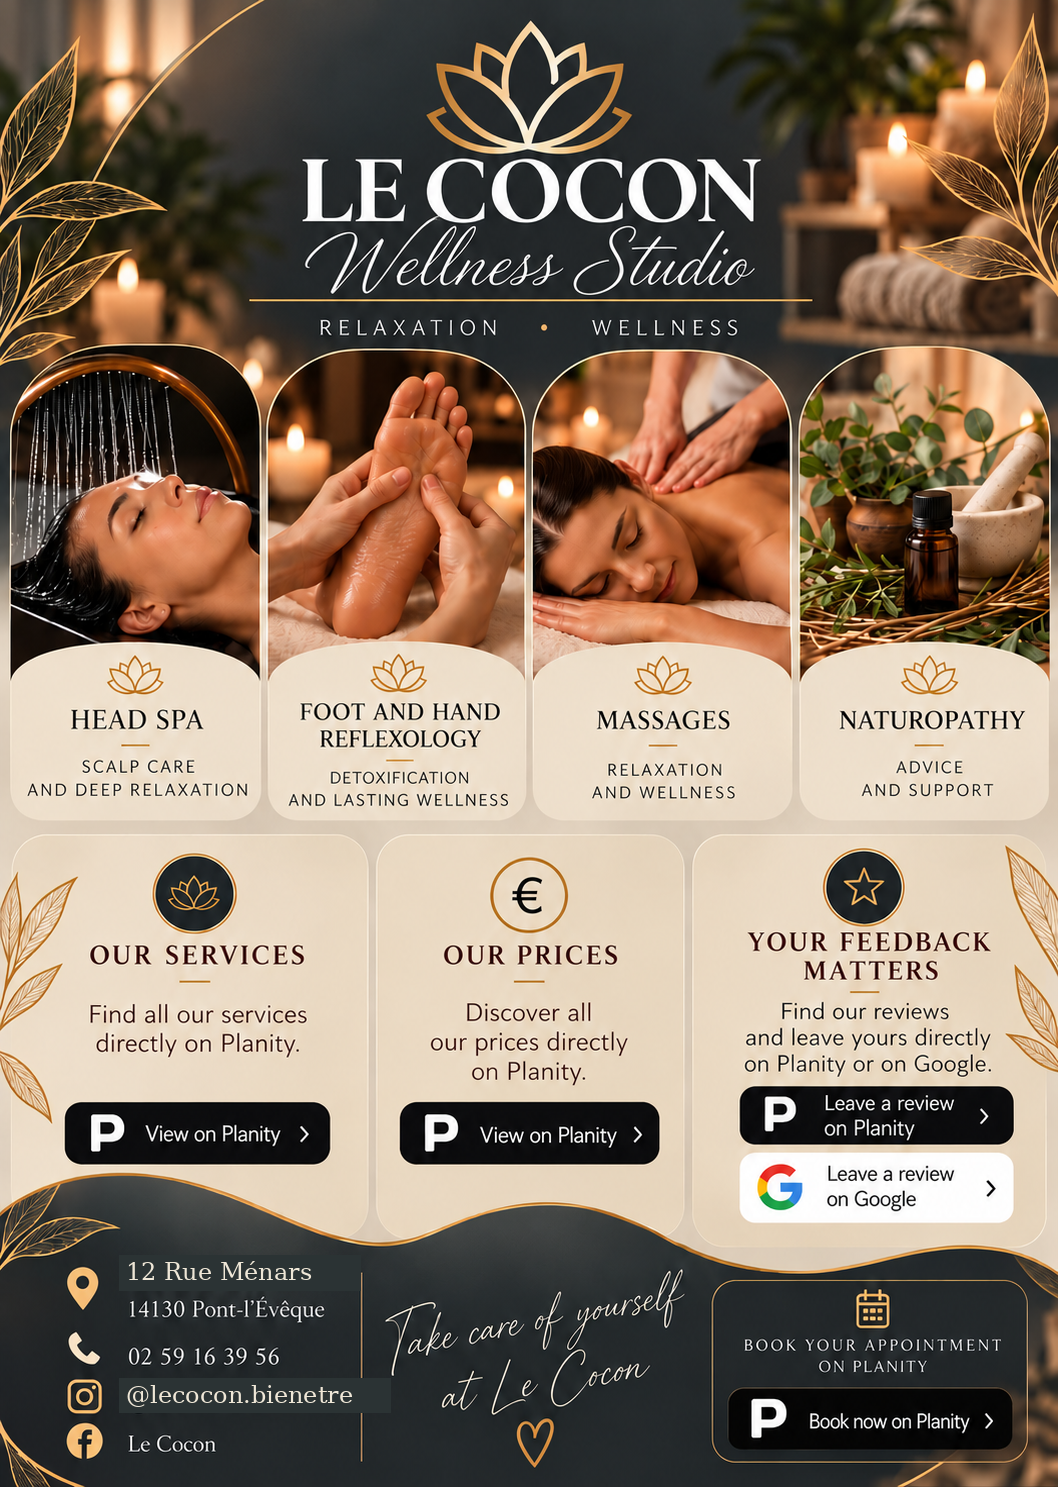
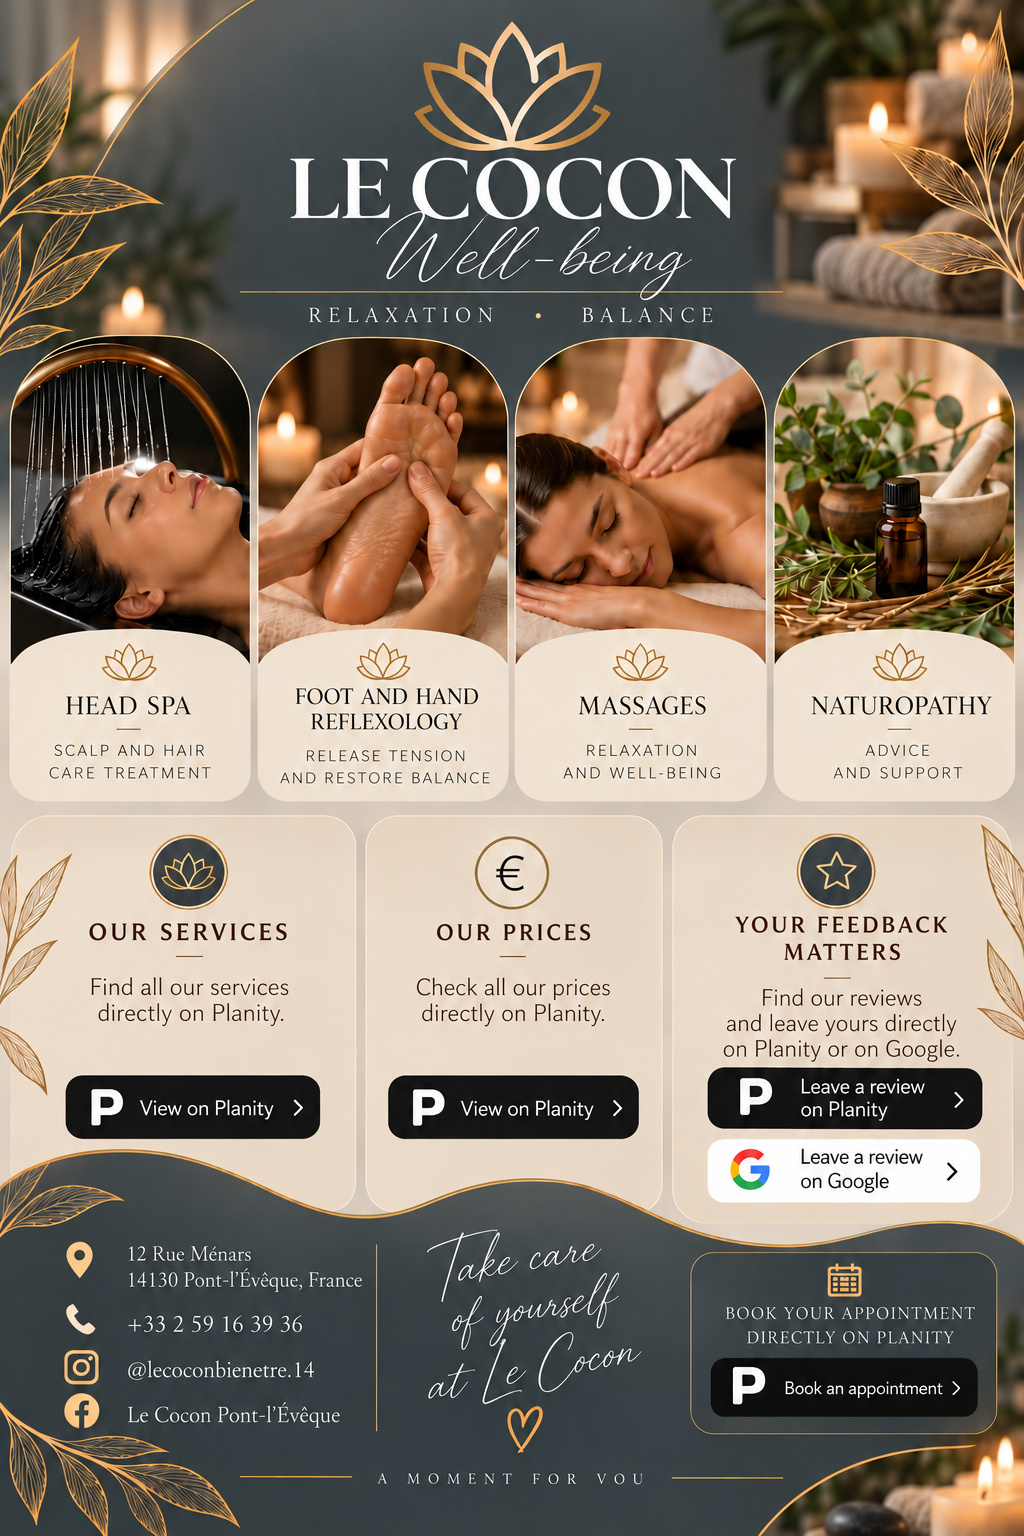
Add files via upload

diff --git a/index.html b/index.html
@@ -25,7 +25,7 @@ a{color:inherit}
 .skip-link{position:absolute;left:-9999px;top:8px;background:#fff;padding:12px;z-index:100}.skip-link:focus{left:8px}
 .poster{position:relative;width:100%;max-width:1400px;margin:0 auto;line-height:0;background:var(--anthracite)}.poster>img{display:block;width:100%;height:auto}
 .hotspot{position:absolute;display:block;line-height:normal;z-index:2;border-radius:18px}.hotspot:focus-visible{outline:3px solid var(--gold-light);outline-offset:2px;background:#ffffff22}
-.planity-services{left:6.2%;top:69.8%;width:25%;height:6.2%}.planity-tarifs{left:37.8%;top:69.8%;width:25%;height:6.2%}.planity-review{left:69%;top:69%;width:27%;height:4.5%}.google-review{left:69%;top:73.8%;width:27%;height:4.5%}.phone{left:5%;top:84.2%;width:27%;height:3.7%}.instagram{left:5%;top:88%;width:27%;height:3.8%}.facebook{left:5%;top:91.5%;width:28%;height:3.6%}.planity-booking{left:68.7%;top:88.4%;width:27.5%;height:4.2%}
+.address-map{left:5%;top:80.8%;width:28%;height:4.8%}.planity-services{left:6.2%;top:69.8%;width:25%;height:6.2%}.planity-tarifs{left:37.8%;top:69.8%;width:25%;height:6.2%}.planity-review{left:69%;top:69%;width:27%;height:4.5%}.google-review{left:69%;top:73.8%;width:27%;height:4.5%}.phone{left:5%;top:84.2%;width:27%;height:3.7%}.instagram{left:5%;top:88%;width:27%;height:3.8%}.facebook{left:5%;top:91.5%;width:28%;height:3.6%}.planity-booking{left:68.7%;top:88.4%;width:27.5%;height:4.2%}
 .services,.gallery{position:relative;text-align:center;color:var(--ink);background:var(--anthracite);border-top:1px solid rgba(198,160,100,.65)}
 .services{padding:58px 22px 62px;border-bottom:1px solid rgba(198,160,100,.65)}
 .gallery{padding:58px 22px 62px}
@@ -146,66 +146,93 @@ body > .skiptranslate{display:none!important;height:0!important;visibility:hidde
 </style>
 </head>
 <body>
-<div id="cocon-language-switcher" aria-label="Choisir la langue du site">
-<button type="button" data-lang="fr" aria-label="Français" aria-pressed="true">🇫🇷<span class="lang-code">FR</span></button>
-<button type="button" data-lang="en" aria-label="English" aria-pressed="false">🇬🇧<span class="lang-code">EN</span></button>
-<button type="button" data-lang="es" aria-label="Español" aria-pressed="false">🇪🇸<span class="lang-code">ES</span></button>
-<button type="button" data-lang="de" aria-label="Deutsch" aria-pressed="false">🇩🇪<span class="lang-code">DE</span></button>
-<button type="button" data-lang="it" aria-label="Italiano" aria-pressed="false">🇮🇹<span class="lang-code">IT</span></button>
-<button type="button" data-lang="nl" aria-label="Nederlands" aria-pressed="false">🇳🇱<span class="lang-code">NL</span></button>
-<button type="button" data-lang="ru" aria-label="Русский" aria-pressed="false">🇷🇺<span class="lang-code">RU</span></button>
+<div id="cocon-language-switcher" aria-label="Choisir la langue de l’affiche">
+<button type="button" data-lang="fr" aria-label="Français" aria-pressed="true" title="Français">🇫🇷<span class="lang-code">FR</span></button>
+<button type="button" data-lang="en" aria-label="English" aria-pressed="false" title="English">🇬🇧<span class="lang-code">EN</span></button>
+<button type="button" data-lang="es" aria-label="Español" title="Español">🇪🇸<span class="lang-code">ES</span></button>
+<button type="button" data-lang="de" aria-label="Deutsch" title="Deutsch">🇩🇪<span class="lang-code">DE</span></button>
+<button type="button" data-lang="it" aria-label="Italiano" title="Italiano">🇮🇹<span class="lang-code">IT</span></button>
+<button type="button" data-lang="nl" aria-label="Nederlands" title="Nederlands">🇳🇱<span class="lang-code">NL</span></button>
+<button type="button" data-lang="ru" aria-label="Русский" title="Русский">🇷🇺<span class="lang-code">RU</span></button>
 </div><div id="google_translate_element" aria-hidden="true"></div>
 <script>
 (function(){
- var root=document.getElementById('cocon-language-switcher'); if(!root)return;
- function setPressed(lang){root.querySelectorAll('button[data-lang]').forEach(function(b){b.setAttribute('aria-pressed',b.getAttribute('data-lang')===lang?'true':'false')})}
- function writeCookie(name,value,domain){
-   var cookie=name+'='+value+'; path=/; SameSite=Lax';
-   if(domain) cookie+='; domain='+domain;
-   document.cookie=cookie;
- }
- function clearTranslateCookies(){
-   var expired='; expires=Thu, 01 Jan 1970 00:00:00 GMT; path=/; SameSite=Lax';
-   document.cookie='googtrans='+expired;
-   var host=location.hostname;
-   document.cookie='googtrans='+expired+'; domain='+host;
-   if(host==='www.lecocon14.com'||host==='lecocon14.com'){
-     document.cookie='googtrans='+expired+'; domain=.lecocon14.com';
-     document.cookie='googtrans='+expired+'; domain=lecocon14.com';
-   }
-   try{localStorage.removeItem('googtrans')}catch(e){}
- }
- function setLang(lang){
-   if(!['fr','en','es','de','it','nl','ru'].includes(lang)) return;
-   clearTranslateCookies();
-   if(lang!=='fr'){
-     writeCookie('googtrans','/fr/'+lang);
-     var host=location.hostname;
-     if(host==='www.lecocon14.com'||host==='lecocon14.com') writeCookie('googtrans','/fr/'+lang,'.lecocon14.com');
-   }
-   try{localStorage.setItem('cocon-lang',lang)}catch(e){}
-   setPressed(lang);
-   applyPosterLanguage(lang);
-   location.reload();
- }
- function applyPosterLanguage(lang){
-   var poster=document.getElementById('cocon-home-poster');
-   if(!poster)return;
-   var code=lang||'fr';
-   var files={fr:'maquette.png',en:'maquette-en.png',es:'maquette-es.png',de:'maquette-de.png',it:'maquette-it.png',nl:'maquette-nl.png',ru:'maquette-ru.png'};
-   poster.onerror=function(){poster.onerror=null;poster.src='./maquette.png'};
-   poster.src='./'+(files[code]||files.fr);
- }
- root.querySelectorAll('button[data-lang]').forEach(function(b){b.addEventListener('click',function(){setLang(b.getAttribute('data-lang'))})});
- function currentLang(){
-   var match=document.cookie.match(/(?:^|;\s*)googtrans=\/fr\/(en|es|de|it|nl|ru)/);
-   if(match)return match[1];
-   try{var stored=localStorage.getItem('cocon-lang');if(stored)return stored}catch(e){}
-   return 'fr';
- }
- var selected=currentLang();setPressed(selected);applyPosterLanguage(selected);
- window.googleTranslateElementInit=function(){new google.translate.TranslateElement({pageLanguage:'fr',includedLanguages:'en,es,de,it,nl,ru',autoDisplay:false},'google_translate_element');};
- var script=document.createElement('script');script.src='https://translate.google.com/translate_a/element.js?cb=googleTranslateElementInit';script.async=true;document.head.appendChild(script);
+  var translateReady = false;
+  window.googleTranslateElementInit = function(){
+    if (!window.google || !google.translate) return;
+    new google.translate.TranslateElement({pageLanguage:'fr', includedLanguages:'fr,en,es,de,it,nl,ru', autoDisplay:false}, 'google_translate_element');
+    translateReady = true;
+  };
+  function loadGoogleTranslate(){
+    if (document.getElementById('google-translate-loader')) return;
+    var script=document.createElement('script');
+    script.id='google-translate-loader';
+    script.src='https://translate.google.com/translate_a/element.js?cb=googleTranslateElementInit';
+    script.async=true;
+    document.head.appendChild(script);
+  }
+  function applyGoogleLanguage(lang){
+    if(lang==='fr'){
+      var combo=document.querySelector('.goog-te-combo');
+      if(combo){combo.value='';combo.dispatchEvent(new Event('change'));}
+      return;
+    }
+    var combo=document.querySelector('.goog-te-combo');
+    if(combo){combo.value=lang;combo.dispatchEvent(new Event('change'));}
+  }
+  document.addEventListener('DOMContentLoaded',function(){
+    var root=document.getElementById('cocon-language-switcher');
+    var poster=document.getElementById('cocon-main-poster');
+    if(!root) return;
+    loadGoogleTranslate();
+    function setLang(lang){
+      if(!['fr','en','es','de','it','nl','ru'].includes(lang)) lang='fr';
+      if(poster){
+        // Chaque drapeau affiche la maquette fournie dans la langue correspondante.
+        var posterFiles = {
+          fr: './maquette.png',
+          en: './maquette-en.png',
+          es: './maquette-es.png',
+          de: './maquette-de.png',
+          it: './maquette-it.png',
+          nl: './maquette-nl.png',
+          ru: './maquette-ru.png'
+        };
+        var posterLabels = {
+          fr: 'Affiche du Cocon Bien-Être en français.',
+          en: 'Le Cocon Well-being poster in English.',
+          es: 'Cartel de Le Cocon Bienestar en español.',
+          de: 'Plakat von Le Cocon Wellnesszentrum auf Deutsch.',
+          it: 'Locandina di Le Cocon Benessere in italiano.',
+          nl: 'Poster van Le Cocon Welzijn in het Nederlands.',
+          ru: 'Плакат Le Cocon на русском языке.'
+        };
+        poster.src = posterFiles[lang] || posterFiles.fr;
+        poster.alt = posterLabels[lang] || posterLabels.fr;
+      }
+      root.querySelectorAll('button[data-lang]').forEach(function(button){
+        button.setAttribute('aria-pressed',button.getAttribute('data-lang')===lang?'true':'false');
+        var label=button.getAttribute('aria-label')||button.title||lang;
+        button.title=label;
+      });
+      try{localStorage.setItem('cocon-poster-lang',lang);}catch(e){}
+      // Google Translate s'initialise de façon asynchrone : réessaie brièvement
+      // sans bloquer la page si le service n'est pas disponible.
+      var attempts=0;
+      var timer=setInterval(function(){
+        attempts++;
+        var combo=document.querySelector('.goog-te-combo');
+        if(combo){clearInterval(timer);applyGoogleLanguage(lang);}
+        else if(attempts>=20){clearInterval(timer);}
+      },250);
+    }
+    root.querySelectorAll('button[data-lang]').forEach(function(button){
+      button.addEventListener('click',function(){setLang(button.getAttribute('data-lang'));});
+    });
+    var initial='fr';
+    try{initial=localStorage.getItem('cocon-poster-lang')||'fr';}catch(e){}
+    setLang(initial);
+  });
 })();
 </script>
 
@@ -238,8 +265,9 @@ body > .skiptranslate{display:none!important;height:0!important;visibility:hidde
   </nav>
 </header>
 <main id="contenu">
-<section class="poster" aria-label="Présentation du Cocon Bien-Être"><img id="cocon-home-poster" src="./maquette.png" data-base="./maquette" alt="Présentation du salon Le Cocon Bien-Être à Pont-l’Évêque et de ses prestations de bien-être.">
-<a class="hotspot planity-services" href="https://www.planity.com/le-cocon-head-spa-modelage-14130-pont-leveque" target="_blank" rel="noopener noreferrer" aria-label="Voir les prestations sur Planity"></a><a class="hotspot planity-tarifs" href="https://www.planity.com/le-cocon-head-spa-modelage-14130-pont-leveque" target="_blank" rel="noopener noreferrer" aria-label="Voir les tarifs sur Planity"></a><a class="hotspot planity-review" href="https://www.planity.com/le-cocon-head-spa-modelage-14130-pont-leveque" target="_blank" rel="noopener noreferrer" aria-label="Avis Planity"></a><a class="hotspot google-review" href="https://www.google.com/search?q=Le+Cocon+Bien-%C3%AAtre+Pont-l%27%C3%89v%C3%AAque" target="_blank" rel="noopener noreferrer" aria-label="Avis Google"></a><a class="hotspot phone" href="tel:+33259163936" aria-label="Appeler le salon"></a><a class="hotspot instagram" href="https://www.instagram.com/lecocon.bienetre/" target="_blank" rel="noopener noreferrer" aria-label="Instagram du Cocon"></a><a class="hotspot facebook" href="https://www.facebook.com/lecoconpontleveque/" target="_blank" rel="noopener noreferrer" aria-label="Facebook du Cocon"></a><a class="hotspot planity-booking" href="https://www.planity.com/le-cocon-head-spa-modelage-14130-pont-leveque" target="_blank" rel="noopener noreferrer" aria-label="Prendre rendez-vous sur Planity"></a></section>
+<section class="poster" aria-label="Présentation du Cocon Bien-Être"><img id="cocon-main-poster" src="./maquette.png" alt="Affiche du Cocon Bien-Être en français.">
+<a class="hotspot planity-services" href="https://www.planity.com/le-cocon-head-spa-modelage-14130-pont-leveque" target="_blank" rel="noopener noreferrer" aria-label="Voir les prestations sur Planity"></a><a class="hotspot planity-tarifs" href="https://www.planity.com/le-cocon-head-spa-modelage-14130-pont-leveque" target="_blank" rel="noopener noreferrer" aria-label="Voir les tarifs sur Planity"></a><a class="hotspot planity-review" href="https://www.planity.com/le-cocon-head-spa-modelage-14130-pont-leveque" target="_blank" rel="noopener noreferrer" aria-label="Avis Planity"></a><a class="hotspot google-review" href="https://www.google.com/search?q=Le+Cocon+Bien-%C3%AAtre+12+Rue+M%C3%A9nars+Pont-l%27%C3%89v%C3%AAque+avis" target="_blank" rel="noopener noreferrer" aria-label="Avis Google"></a><a class="hotspot address-map" href="https://www.google.com/maps/search/?api=1&amp;query=12+Rue+M%C3%A9nars%2C+14130+Pont-l%27%C3%89v%C3%AAque" target="_blank" rel="noopener noreferrer" aria-label="Adresse du salon dans Google Maps"></a>
+<a class="hotspot phone" href="tel:+33259163936" aria-label="Appeler le salon"></a><a class="hotspot instagram" href="https://www.instagram.com/lecocon.bienetre/" target="_blank" rel="noopener noreferrer" aria-label="Instagram du Cocon"></a><a class="hotspot facebook" href="https://www.facebook.com/lecoconpontleveque/" target="_blank" rel="noopener noreferrer" aria-label="Facebook du Cocon"></a><a class="hotspot planity-booking" href="https://www.planity.com/le-cocon-head-spa-modelage-14130-pont-leveque" target="_blank" rel="noopener noreferrer" aria-label="Prendre rendez-vous sur Planity"></a></section>
 <section class="services" id="about" aria-labelledby="services-title"><div class="services-inner"><div class="eyebrow">Votre parenthèse de douceur</div><h1 id="services-title">Le Cocon Bien-Être à Pont-l’Évêque</h1><p class="intro">Bienvenue au Cocon Bien-Être, un espace dédié à la détente et au lâcher-prise à Pont-l’Évêque, dans le Calvados. Découvrez nos soins et choisissez le moment de bien-être qui vous ressemble.</p><div class="service-grid">
 <article class="service-card"><a class="service-card-link" href="./head-spa.html" aria-label="Découvrir : Head Spa"><h3>Head Spa</h3><p>Offrez-vous une pause relaxante dédiée au cuir chevelu, avec des gestes enveloppants pour favoriser la détente et profiter d’un moment pour vous.</p></a></article><article class="service-card"><a class="service-card-link" href="./massage-bien-etre.html" aria-label="Découvrir : Massages bien-être"><h3>Massages bien-être</h3><p>Profitez d’un massage bien-être dans une atmosphère apaisante. Les gestes doux invitent à relâcher les tensions du quotidien et à retrouver une agréable sensation de détente.</p></a></article><article class="service-card"><a class="service-card-link" href="./massage-pierres-chaudes.html" aria-label="Découvrir : Massage aux pierres chaudes"><h3>Massage aux pierres chaudes</h3><p>La chaleur des pierres et les mouvements du modelage vous invitent à ralentir, à vous détendre et à profiter d’une parenthèse chaleureuse et réconfortante.</p></a></article><article class="service-card"><a class="service-card-link" href="./reflexologie-plantaire.html" aria-label="Découvrir : Réflexologie plantaire"><h3>Réflexologie plantaire</h3><p>Un soin de détente centré sur les pieds, réalisé par des pressions sur des zones précises, pour s’accorder un moment calme et favoriser le relâchement.</p></a></article><article class="service-card"><a class="service-card-link" href="./reflexologie-palmaire.html" aria-label="Découvrir : Réflexologie palmaire"><h3>Réflexologie palmaire</h3><p>Une pause douce dédiée aux mains, avec des pressions ciblées qui invitent à relâcher les tensions et à profiter d’un instant de relaxation.</p></a></article><article class="service-card"><a class="service-card-link" href="./naturopathie.html" aria-label="Découvrir : Naturopathie"><h3>Naturopathie</h3><p>Un accompagnement personnalisé autour de l’hygiène de vie et des habitudes du quotidien, pour faire le point sur vos besoins et vos objectifs de bien-être.</p></a></article></div><div class="booking-wrap"><a class="booking-button" href="https://www.planity.com/le-cocon-head-spa-modelage-14130-pont-leveque" target="_blank" rel="noopener noreferrer">Découvrir les prestations et réserver</a></div></div></section>
 <section class="gallery" id="galerie" aria-labelledby="gallery-title"><div class="eyebrow">Le Cocon Bien-Être · Pont-l’Évêque</div><h2 id="gallery-title">Découvrez notre univers</h2><div class="rule"></div><p class="intro">Une parenthèse de douceur, de détente et de bien-être. Découvrez en images l’atmosphère du salon et nos instants de relaxation.</p><div class="tiles" aria-label="Galerie photo du salon">
